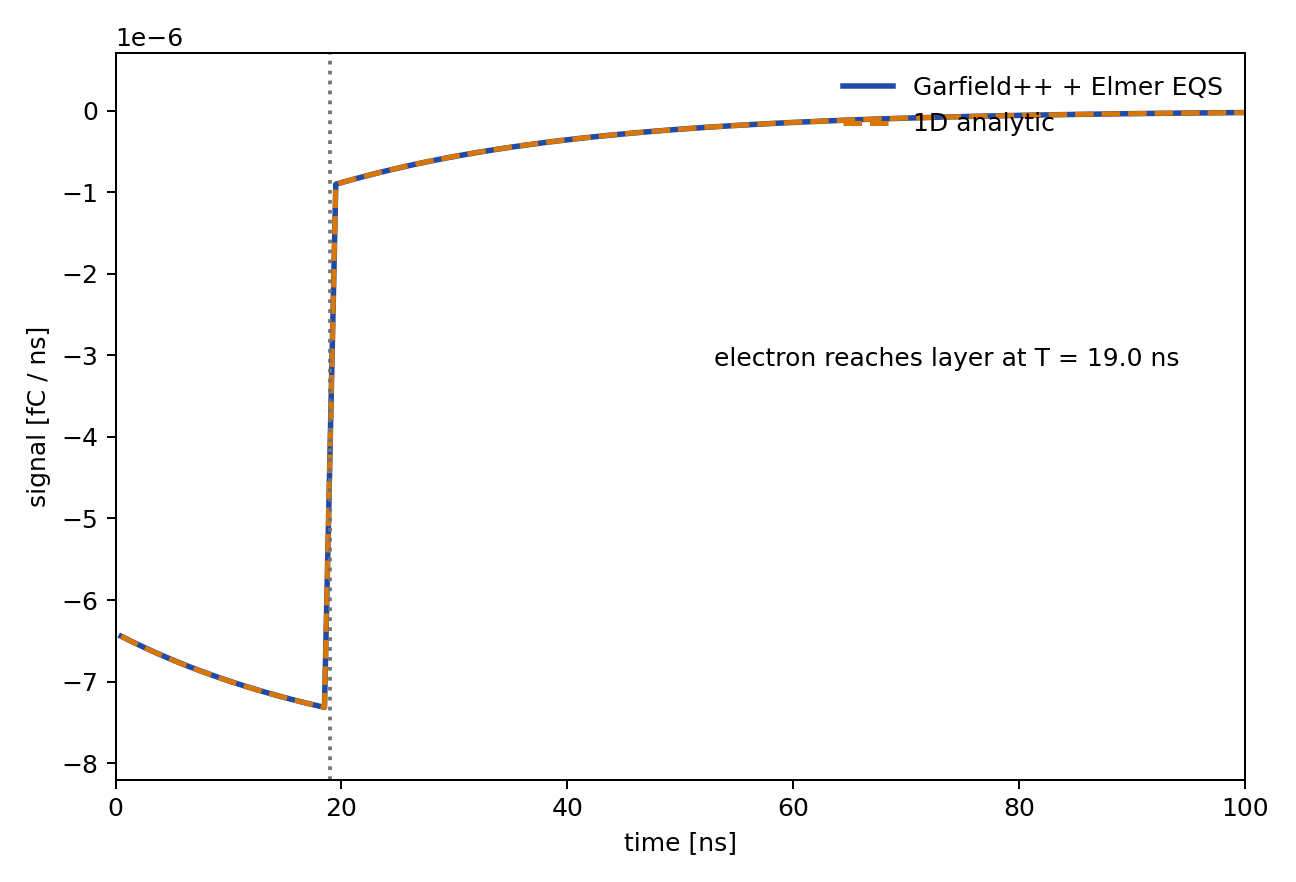
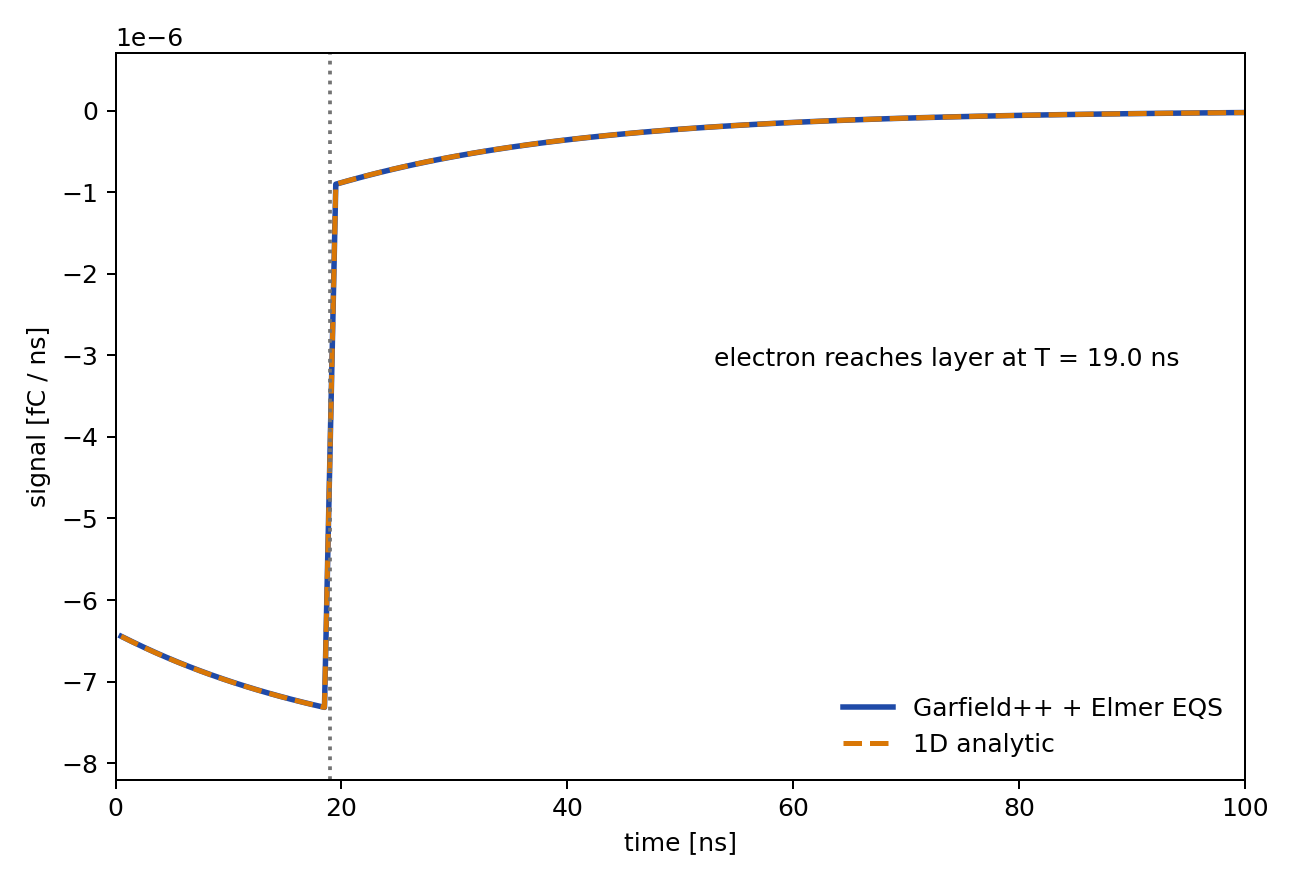
Updates documentation and files for activity

Changed region(s): [[0.6481, 0.7959, 0.9568, 0.8571], [0.6481, 0.0918, 0.9568, 0.1531]]

diff --git a/plate2D/dynamic/scripts/compare_analytic_signal.py b/plate2D/dynamic/scripts/compare_analytic_signal.py
@@ -209,7 +209,7 @@ def make_plot(
     ax.set_ylim(-8.2e-6, 0.7e-6)
     ax.set_xlabel("time [ns]")
     ax.set_ylabel("signal [fC / ns]")
-    ax.legend(frameon=False, loc="upper right")
+    ax.legend(frameon=False, loc="lower right")
     save_figure(fig, path)
 
 
@@ -262,7 +262,7 @@ def make_transient_signal_plot(path: Path, garfield_rows: SignalRows) -> None:
     ax.set_ylim(ymin, ymax)
     ax.set_xlabel("time [ns]")
     ax.set_ylabel("signal [fC / ns]")
-    ax.legend(frameon=False, loc="upper right")
+    ax.legend(frameon=False, loc="lower right")
     save_figure(fig, path)
 
 

diff --git a/plate2D/dynamic/docs/index.md b/plate2D/dynamic/docs/index.md
@@ -25,7 +25,7 @@ resistive layer.
 
 ## Files
 
-- `geometry/ppc_geometry.geo`: same geometry as the static activity
+- `geometry/ppc_geometry.geo`: completed version of the same geometry used in the static activity
 - `elmer/drift_field.sif`: electrostatic drift-field solve
 - `elmer/weighting_static.sif`: prompt weighting-potential solve
 - `elmer/weighting_dynamic_eqs.sif`: transient EQS weighting-potential solve
@@ -97,8 +97,6 @@ The solver line is:
 Procedure = "QuasiElectrostaticSolver" "QuasiElectrostaticSolver"
 ```
 
-For this activity, assume this solver is already installed with Elmer.
-
 ## 1. Rebuild the Mesh
 
 ```bash
@@ -109,8 +107,10 @@ gmsh geometry/ppc_geometry.geo -2 -order 2 -format msh2 -o output/ppc_geometry.m
 ElmerGrid 14 2 output/ppc_geometry.msh -autoclean -out output/mesh
 ```
 
-This is the same geometry as the static exercise: a `0.5 cm` resistive layer
-and a `1.0 cm` gas gap.
+This is the same geometry you completed in the static exercise: a `0.5 cm`
+resistive layer and a `1.0 cm` gas gap. In this dynamic activity folder, the
+geometry file is already filled in so you can focus on the transient weighting
+field.
 
 ## 2. Run the Elmer Solves
 
@@ -140,9 +140,6 @@ cmake --build garfield/build
 ./garfield/build/sim_transient
 ```
 
-If CMake still points at an old ROOT installation, remove `garfield/build` once
-and rerun the configure step.
-
 The key Garfield++ calls are:
 
 ```cpp
@@ -155,9 +152,8 @@ sensor.SetTimeWindow(0., 1.0, 1200);
 ```
 
 The program writes `output/garfield/signal_transient.dat`, with columns for the
-total, prompt, and delayed signal.
-
-Example signal, zoomed to the first `50 ns`:
+total, prompt, and delayed signal. An example signal, zoomed to the first
+`50 ns`:
 
 ![Transient signal](./figures/signal_transient.png)
 
@@ -171,7 +167,7 @@ For the wide central region of this geometry, the 2D finite-element solution
 should agree with the 1D parallel-plate result. In this section you will reduce
 the dynamic weighting-field problem to one interface potential. This is the
 same conductive-layer parallel-plate setup treated in the Riegler proceedings
-paper, specialized to the geometry used in this activity.
+paper referenced below, specialized to the geometry used in this activity.
 
 Use:
 
@@ -370,30 +366,22 @@ window captures essentially the whole tail.
 ## Questions to Answer
 
 - Why does the signal start immediately in the corrected dynamic calculation?
-- Why did starting the transient map from zero produce a delayed pulse with little prompt signal?
 - Why is the prompt integral less than `1 e`? Why is it about `0.760 e` for the default dynamic parameters?
 - Why does the dynamic signal approach about `0.950 e` when integrated long enough?
 - Where does the electron stop, and why does the prompt signal stop there?
 
 ## Things to Try
 
-- Change the resistive-layer conductivity by a factor of `10`. Remember that higher resistivity means smaller conductivity.
-- After changing conductivity, rerun `weighting_dynamic_eqs.sif`, `sim_transient`, and `compare_analytic_signal.py`.
-- Predict how $\tau$ changes before looking at the plot.
-- Change the resistive-layer dielectric constant from `2` to `4` while keeping the conductivity fixed. What changes in the prompt and delayed amplitudes?
-- To recover the more subtle original case, try `Relative Permittivity = 4.0` and `Electric Conductivity = 1.0e-4 S/m`.
-- Compare the prompt and delayed integrals. Does the total charge change, or is the charge mostly redistributed in time?
-- Try a shorter signal window, for example `200 ns`. How much delayed charge is missed?
+- Change the resistive-layer conductivity by a factor of `10`. Remember that higher resistivity means smaller conductivity. Rerun `weighting_dynamic_eqs.sif`, `sim_transient`, and `compare_analytic_signal.py`. Predict how $\tau$ changes before looking at the plot.
+- Change the resistive-layer dielectric constant from `2` to `4` while keeping the conductivity fixed. What changes in the prompt and delayed amplitudes? Does the total charge change, or is the charge mostly redistributed in time?
 - Start the electron closer to the top electrode. How does the total integrated charge change?
 
 ## Main Takeaway
 
 The static weighting field gives the immediate prompt response. The dynamic
-weighting field does not create a new drifting charge; it describes how the
-detector materials relax after the charge moves. In this simple geometry, the
-finite-element result can be checked almost exactly against the 1D analytic
-solution, which is why this is a useful test of the Elmer solver and the
-Garfield++ dynamic weighting-field import.
+weighting field describes how the detector materials relax after the charge
+moves. In this simple geometry, the finite-element result can be checked almost
+exactly against the 1D analytic solution.
 
 ## References
 

diff --git a/plate2D/static/docs/index.md b/plate2D/static/docs/index.md
@@ -1,12 +1,12 @@
 # 2D Parallel Plate: Static Weighting Potential
 
-In this activity you will build a simple 2D detector geometry, solve two
-electrostatic field maps in Elmer, and use Garfield++ to calculate the prompt
-signal from one drifting electron.
+In this activity you will build a simple 2D detector geometry, solve for the
+electrostatic and weighting field maps in Elmer, and use Garfield++ to
+calculate the induced signal from one drifting electron.
 
-The goal is not only to run the example. You should leave with a working mental
-model for how Gmsh geometry, Elmer physical groups, and Garfield++ field-map
-loading fit together.
+The goal is not only to run the example. You should also become familiar with
+how Gmsh geometry, Elmer physical groups, and Garfield++ field-map loading fit
+together.
 
 ![Parallel-plate geometry](./figures/geometry_diagram.png)
 
@@ -31,9 +31,7 @@ $$
 
 ## Files
 
-- `geometry/ppc_geometry_template.geo`: starter geometry with blanks
-- `geometry/ppc_geometry.geo`: complete working geometry
-- `geometry/ppc_geometry_solution.geo`: backup solution
+- `geometry/ppc_geometry.geo`: starter geometry with blanks
 - `elmer/electric_field.sif`: electrostatic drift-field solve
 - `elmer/weighting_field.sif`: static weighting-potential solve
 - `garfield/sim_static.cpp`: Garfield++ driver
@@ -41,9 +39,10 @@ $$
 
 ## 1. Complete the Gmsh Geometry
 
-Start from `geometry/ppc_geometry_template.geo`. If you get stuck, compare with
-`geometry/ppc_geometry_solution.geo`; if time is short, use
-`geometry/ppc_geometry.geo` directly.
+Start from `geometry/ppc_geometry.geo`. It contains the parameters and TODO
+markers; your job is to fill in the missing points, lines, surfaces, and
+physical groups. The complete set of geometry statements is shown below, so you
+do not need a separate solution file.
 
 Gmsh `.geo` files are just a sequence of geometry definitions. The first block
 sets dimensions and the mesh size:
@@ -92,6 +91,12 @@ Plane Surface(2) = {2};
 
 Recombine Surface {1, 2};
 ```
+
+`Recombine Surface` tells Gmsh to recombine triangular elements into
+quadrilateral elements on the listed surfaces. It does not create a new physical
+boundary and it does not change the detector geometry. Here it gives a clean,
+structured-looking mesh for two rectangular layers, which is convenient for
+Elmer and for checking the field map.
 
 Physical groups are the names Elmer will see. Without them, you would have a
 mesh but no easy way to assign materials or boundary voltages: